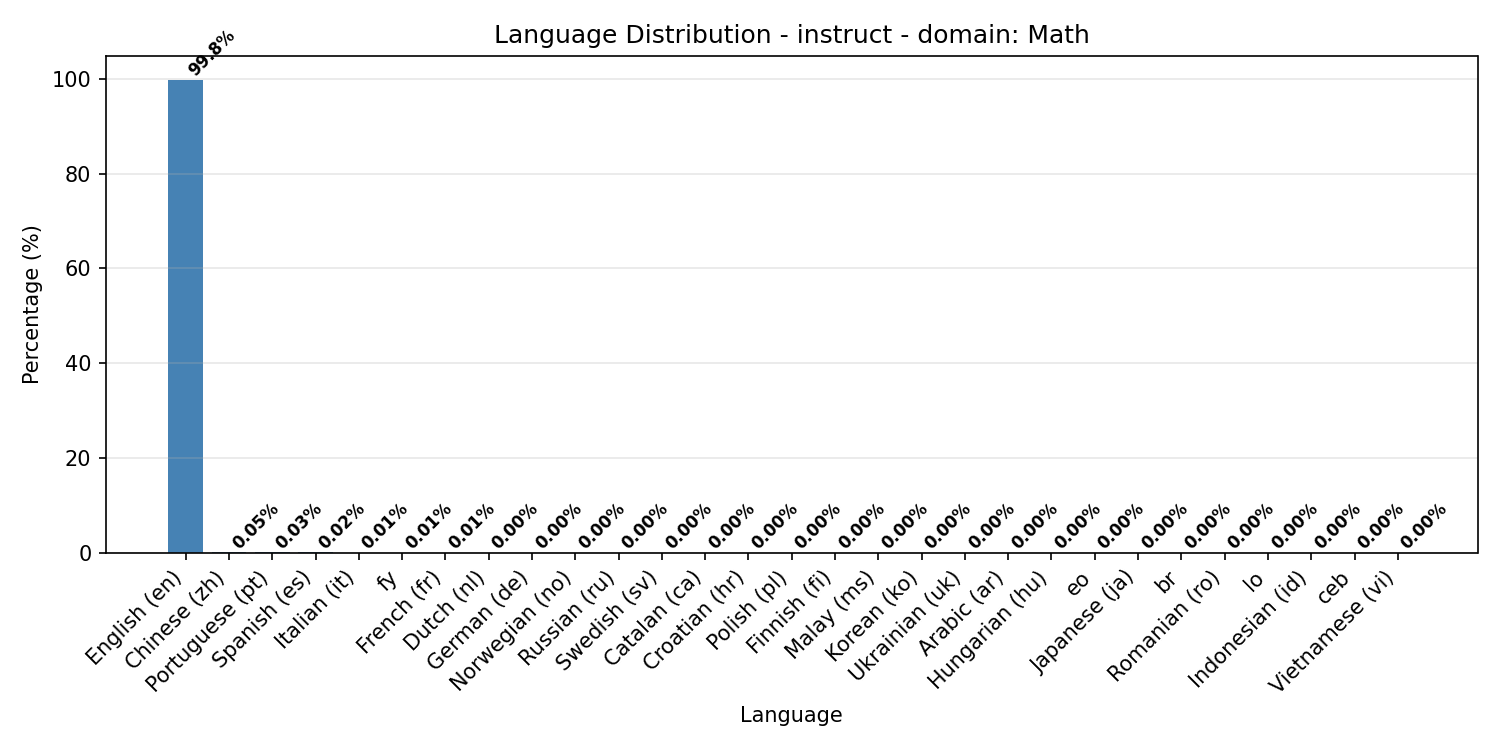
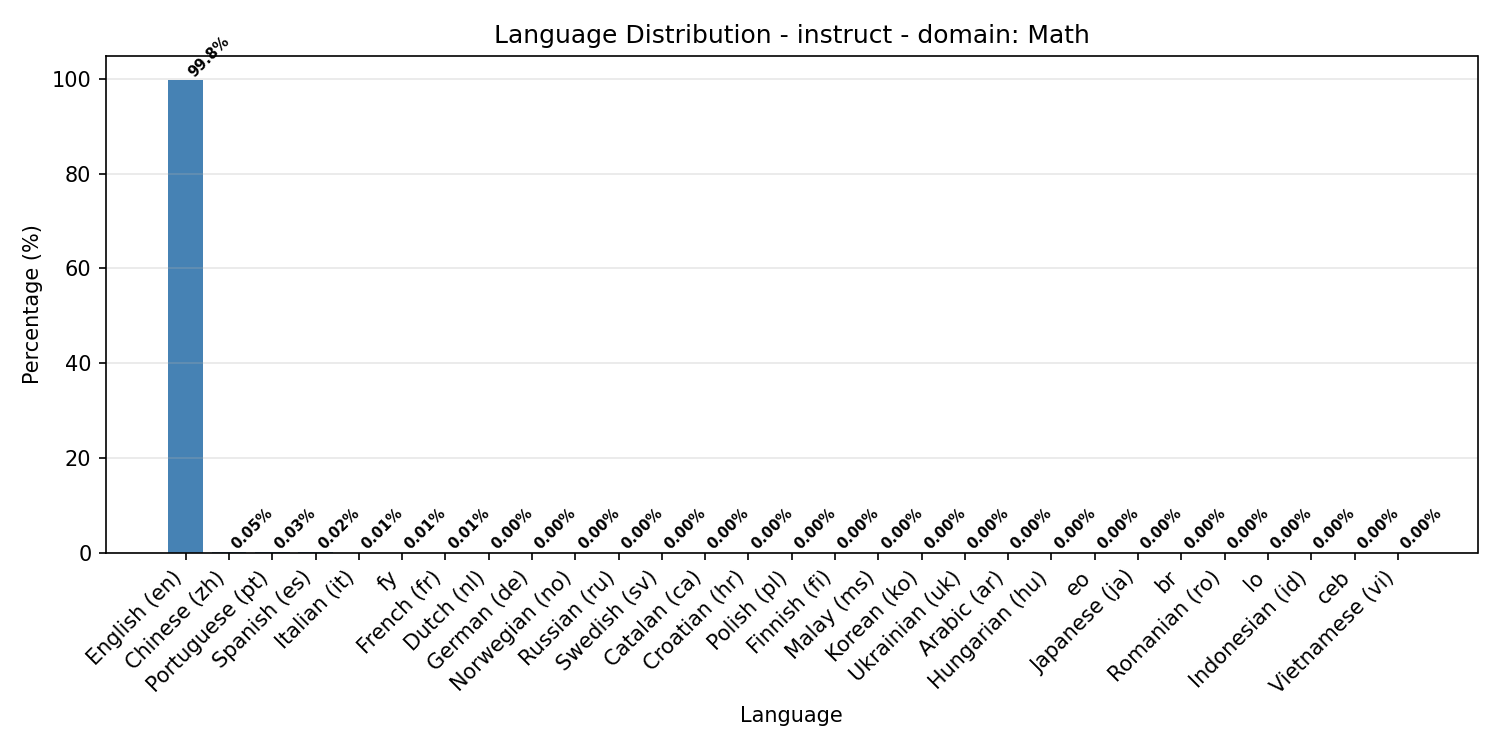
Reduce bar label font size

Changed region(s): [[0.1533, 0.6747, 0.9813, 0.736], [0.1227, 0.0307, 0.1533, 0.092]]

diff --git a/oellm/analysis/dolci_distribution/detect_language_distribution.py b/oellm/analysis/dolci_distribution/detect_language_distribution.py
@@ -275,7 +275,7 @@ def _add_bar_labels(ax, bars, pcts):
                 label,
                 ha="left",
                 va="bottom",
-                fontsize=8,
+                fontsize=7,
                 fontweight="bold",
                 rotation=45,
             )
